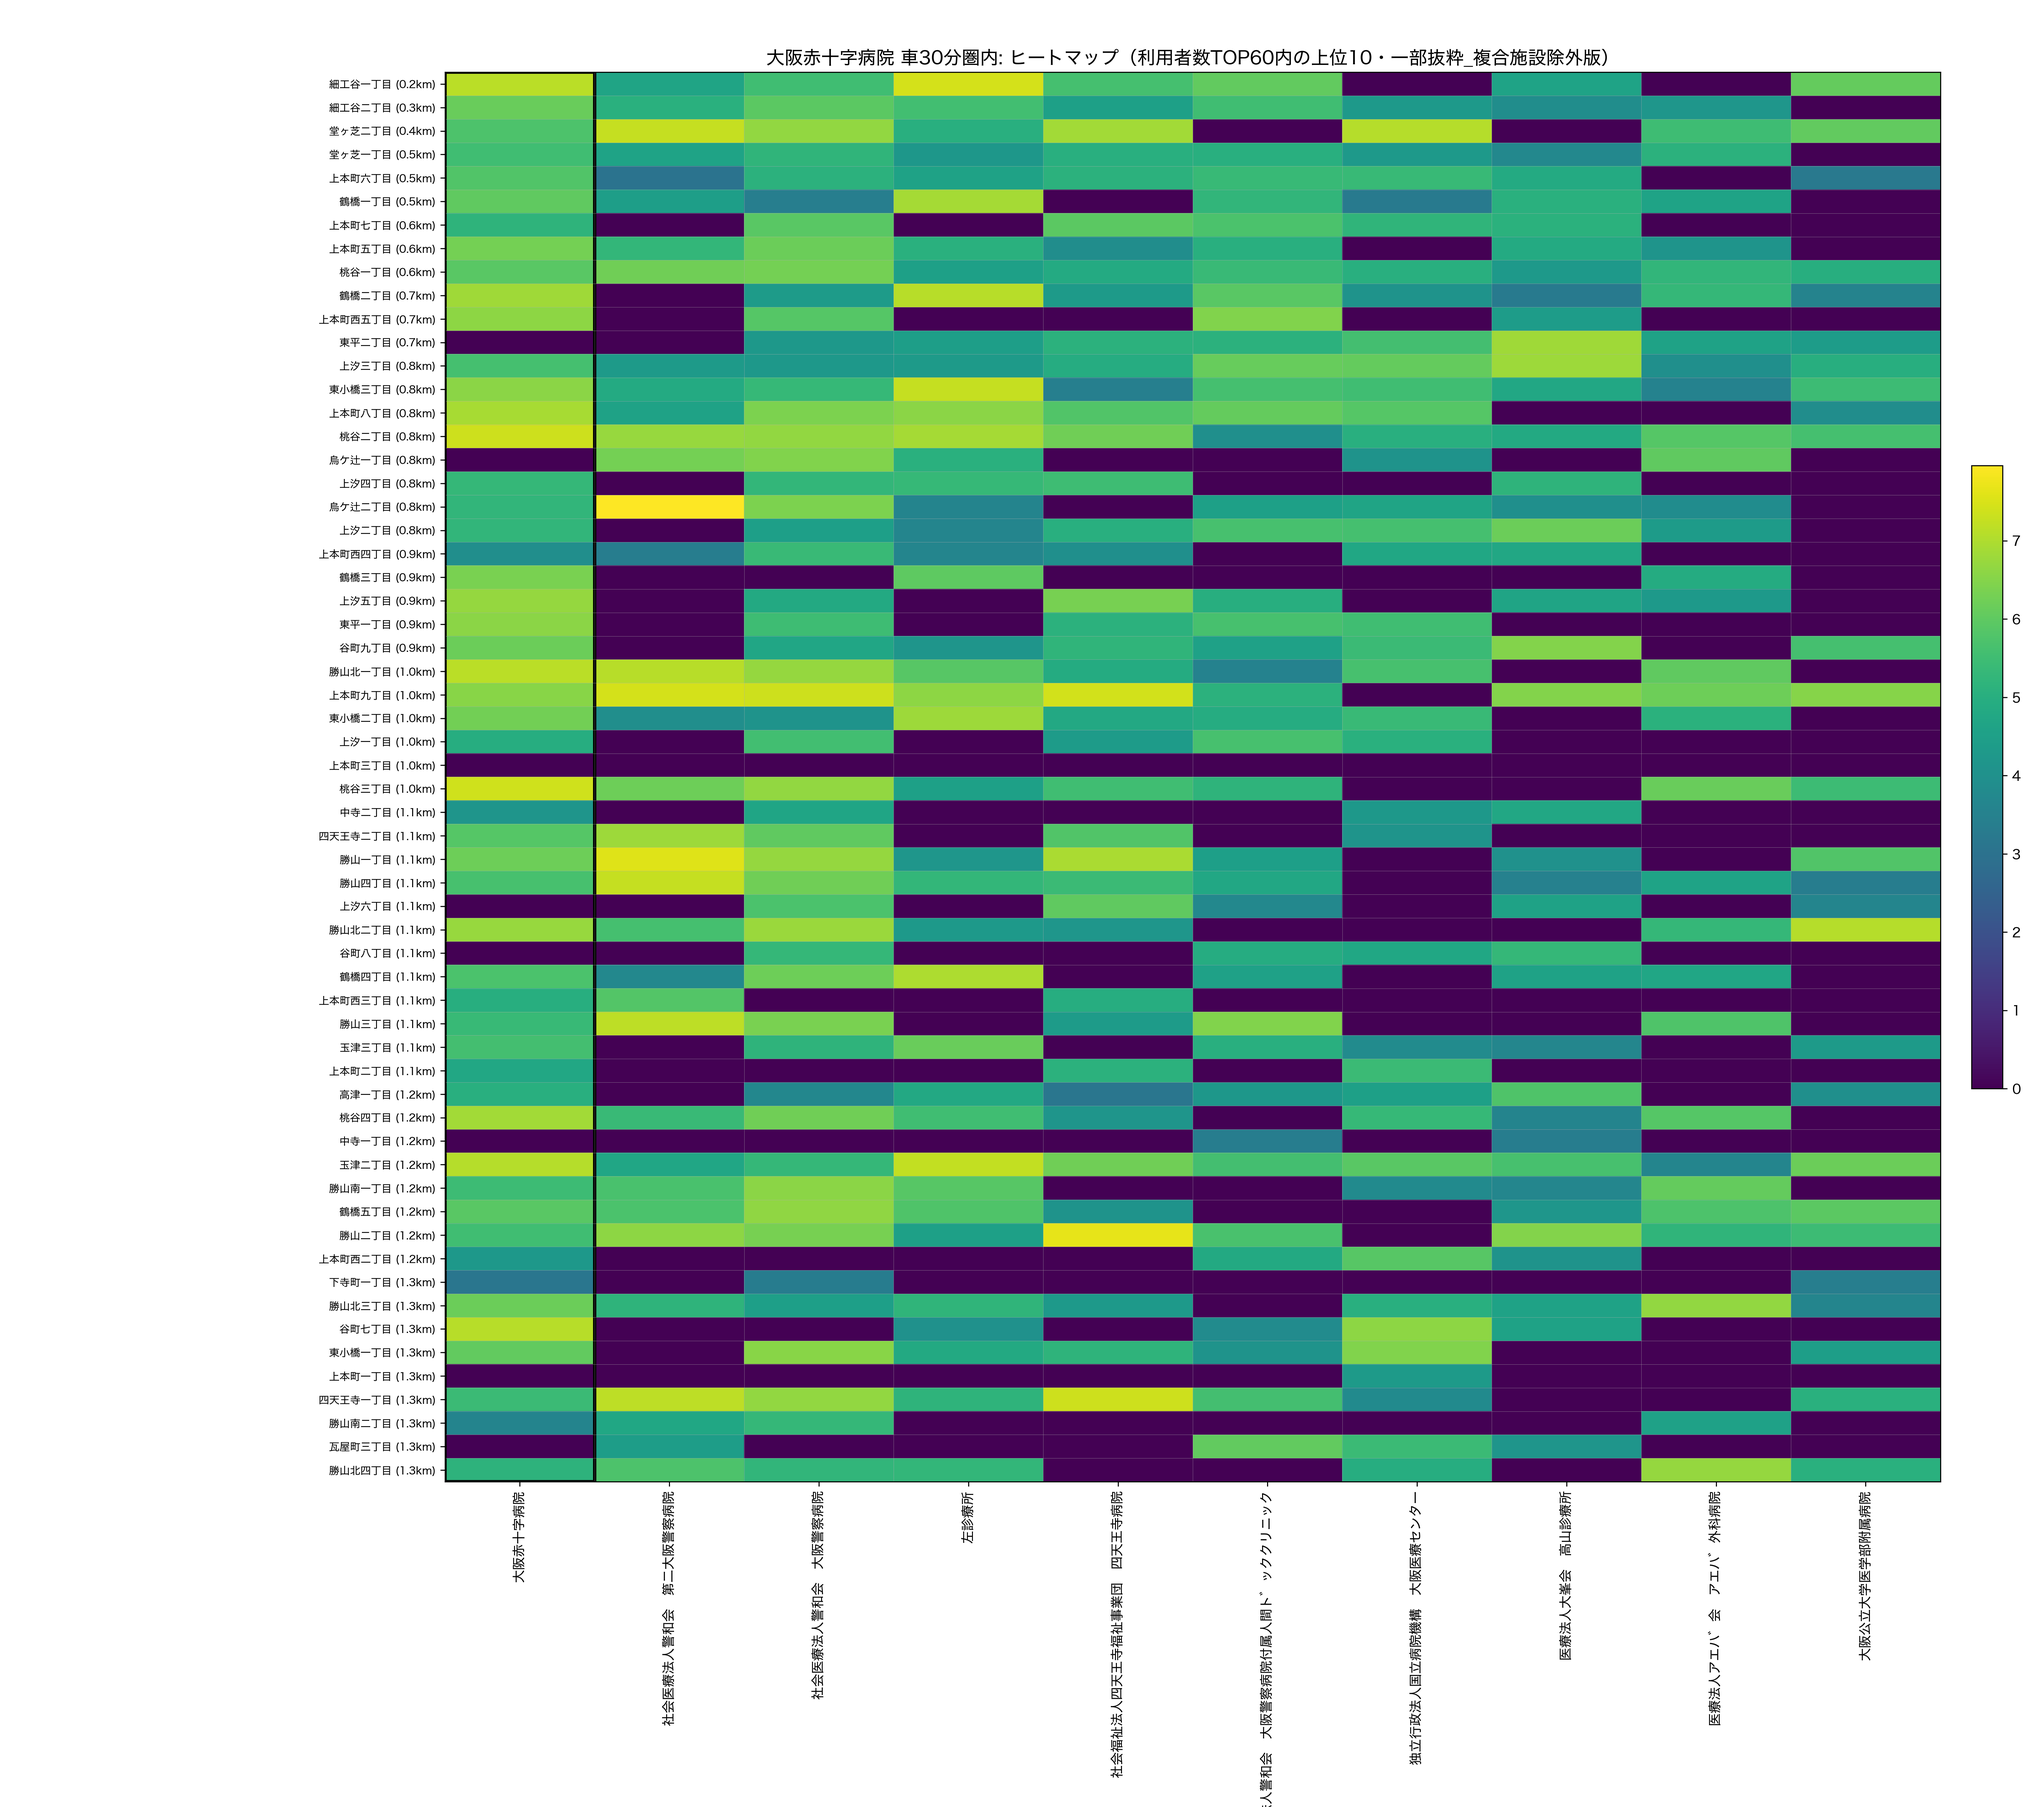
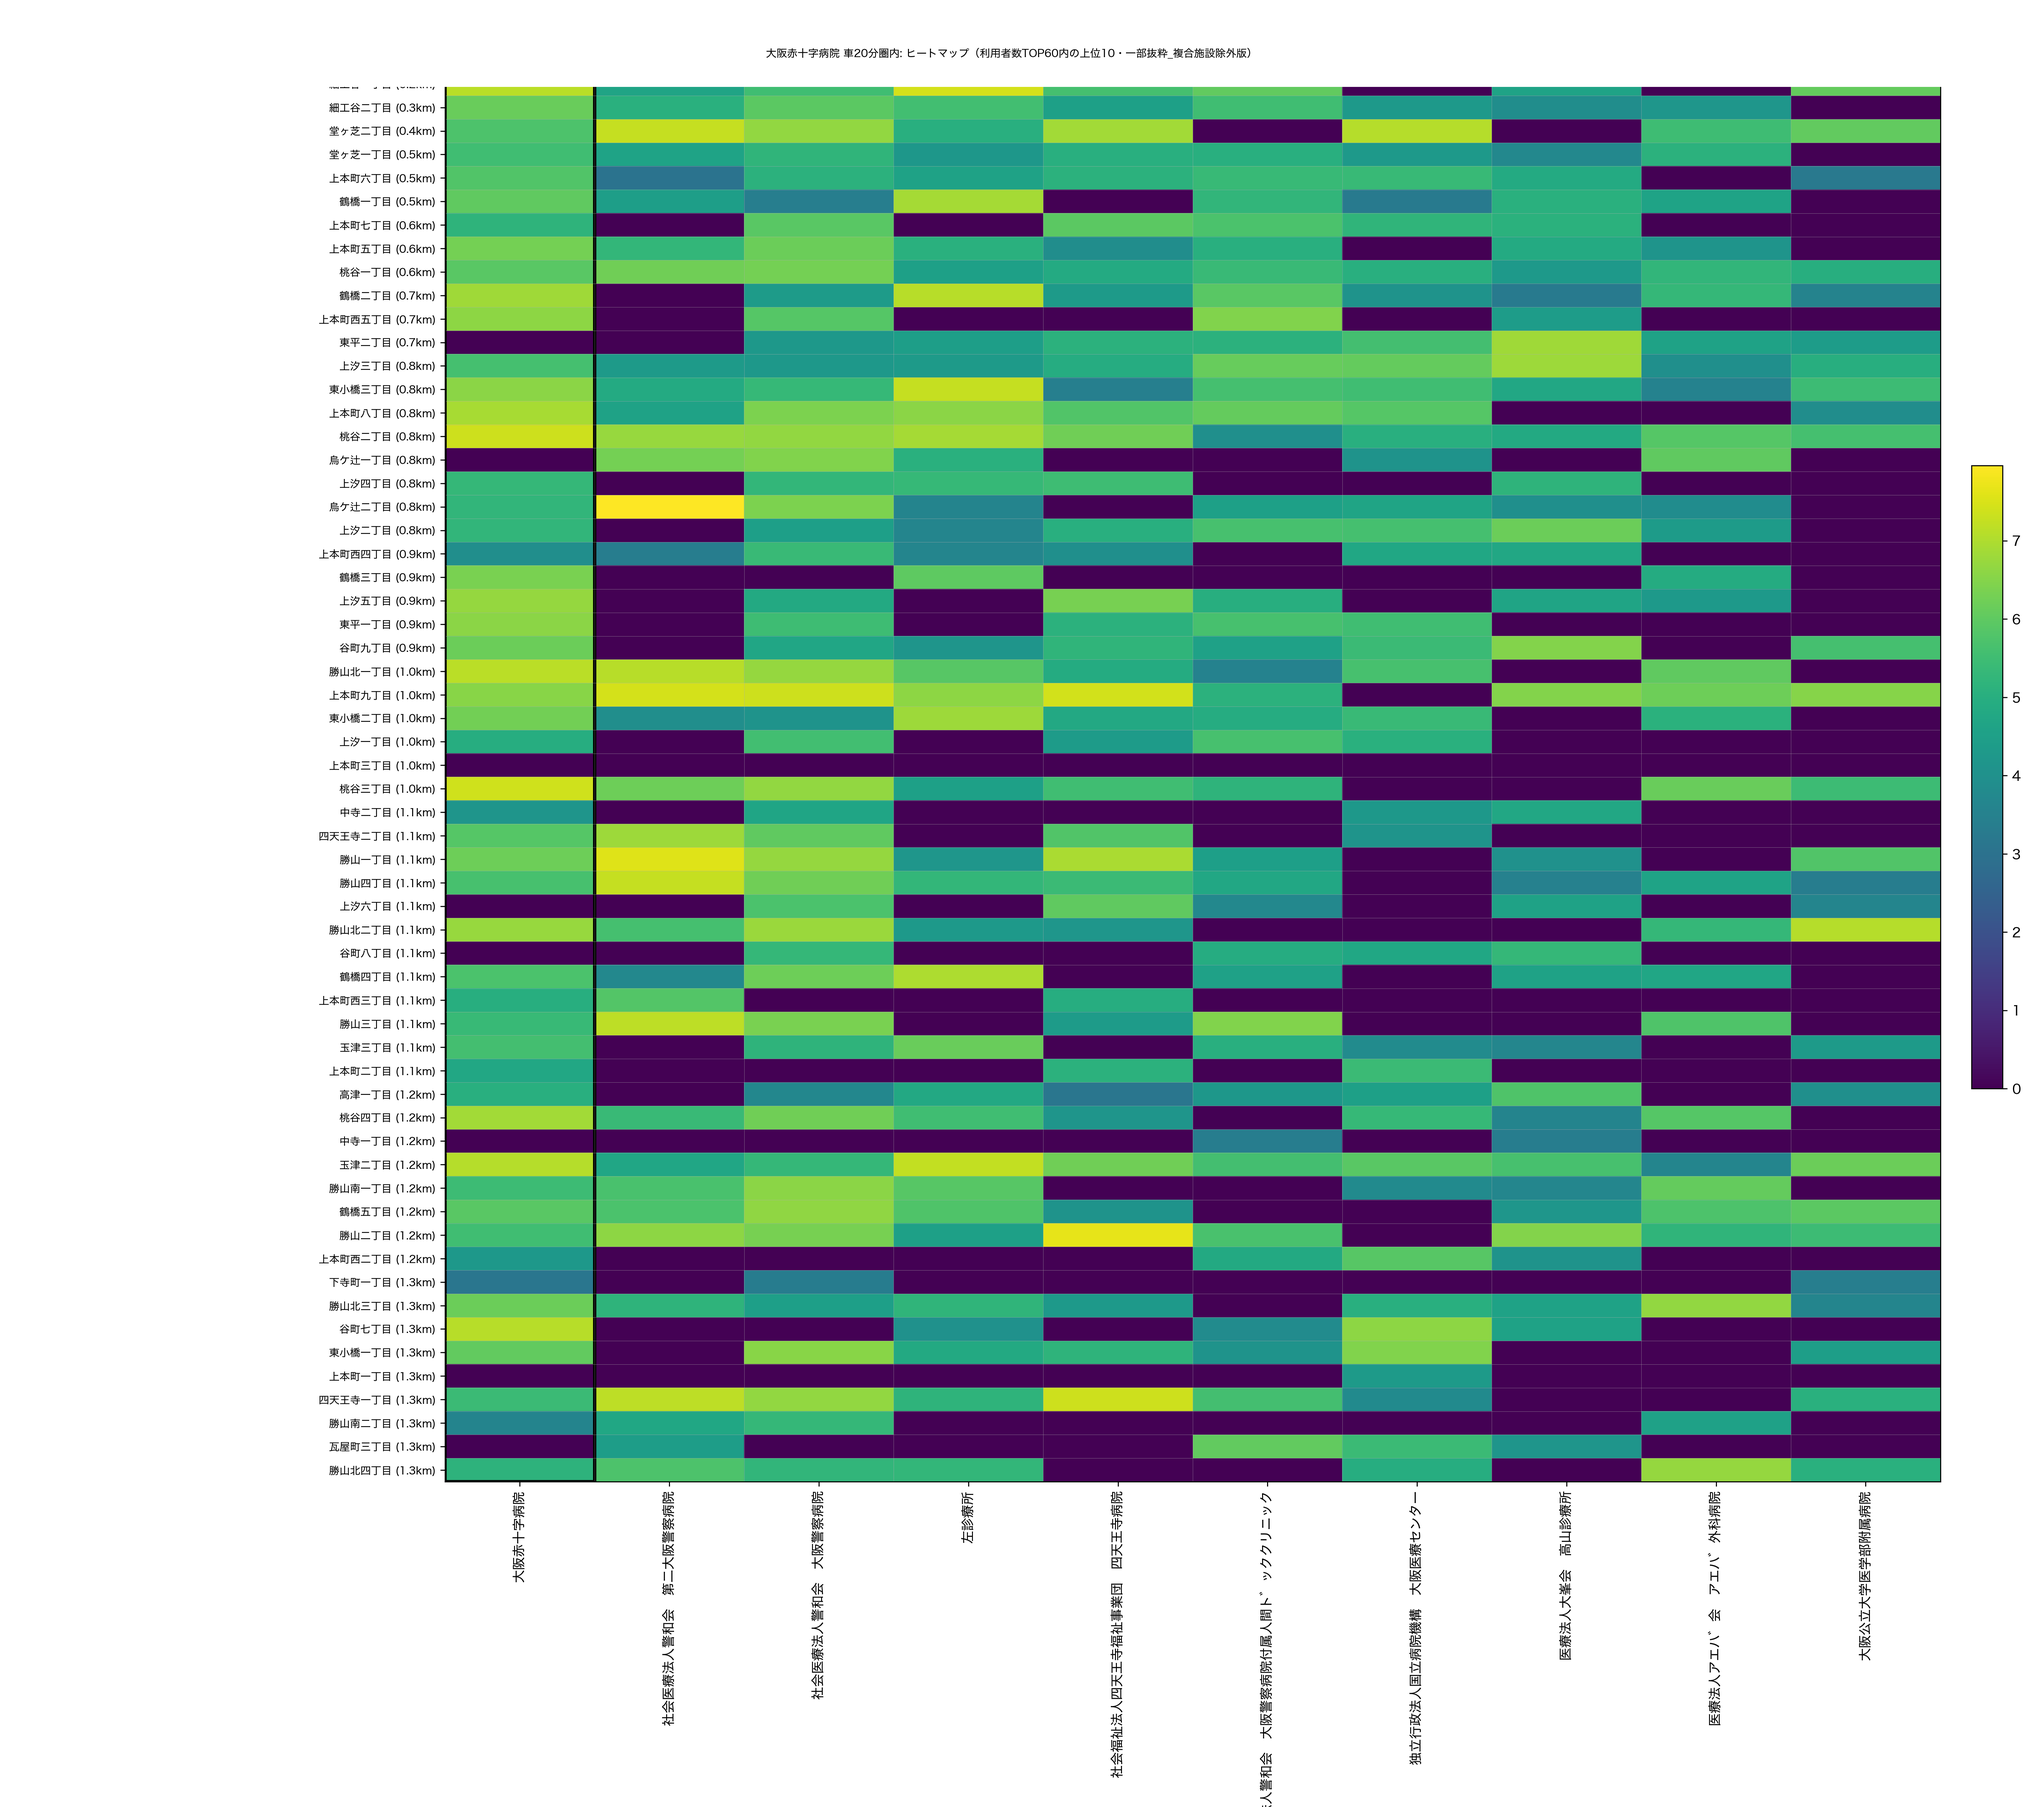
Osaka app: change 30min labels to 20min and update map/heatmap titles

Changed region(s): [[0.2181, 0.0312, 0.966, 0.0625]]

diff --git a/JADECOM/osaka_partial/streamlit_report_osaka_partial.py b/JADECOM/osaka_partial/streamlit_report_osaka_partial.py
@@ -212,12 +212,12 @@ def render_data_tab() -> None:
     st.info(
         "このタブの2表は集計範囲が異なります。"
         "施設ランキングは「大阪赤十字病院から近い60町丁目」ベース、"
-        "対象施設TOP60は「自動車30分圏全体」ベースです。"
+        "対象施設TOP60は「自動車20分圏全体」ベースです。"
     )
     st.markdown(
         "- 一部抜粋60町丁目: 大阪赤十字病院からの距離（dist_km）が近い順の60町丁目\n"
         "- 施設ランキング: 一部抜粋60町丁目での合計利用者数\n"
-        "- 対象施設（利用者数TOP60）: 自動車30分圏全体を母集団に選定した医療機関一覧"
+        "- 対象施設（利用者数TOP60）: 自動車20分圏全体を母集団に選定した医療機関一覧"
     )
 
     rank_df = read_csv_safely(CSV_FILES["施設ランキングCSV"])
@@ -236,7 +236,7 @@ def render_data_tab() -> None:
             selected_df = selected_df.drop(columns=flag_cols)
         selected_df.columns = [str(c).replace("患者", "利用者") for c in selected_df.columns]
         selected_df.columns = [str(c).replace("施設名_実データ列", "施設名") for c in selected_df.columns]
-        st.subheader("対象施設（利用者数TOP60・全件 / 自動車30分圏全体ベース）")
+        st.subheader("対象施設（利用者数TOP60・全件 / 自動車20分圏全体ベース）")
         st.dataframe(selected_df, use_container_width=True, hide_index=True)
 
 
@@ -249,7 +249,7 @@ def render_usage_tab() -> None:
     )
     st.subheader("分析範囲の前提")
     st.markdown(
-        "- 分析母集団: 大阪赤十字病院の自動車30分圏内の対象町丁目（全体）\n"
+        "- 分析母集団: 大阪赤十字病院の自動車20分圏内の対象町丁目（全体）\n"
         "- 可視化（ヒートマップ/マトリクス/グラフ）の表示対象: 大阪赤十字病院から距離が近い順の60町丁目\n"
         "- 施設選定: 利用者数TOP60施設"
     )
@@ -265,7 +265,7 @@ def render_usage_tab() -> None:
     st.subheader("データ確認の表の説明")
     st.markdown(
         "- `施設ランキング`：大阪赤十字病院から近い60町丁目での人数合計ランキング\n"
-        "- `対象施設（利用者数TOP60）`：自動車30分圏全体を母集団に選定した医療機関一覧"
+        "- `対象施設（利用者数TOP60）`：自動車20分圏全体を母集団に選定した医療機関一覧"
     )
 
 
